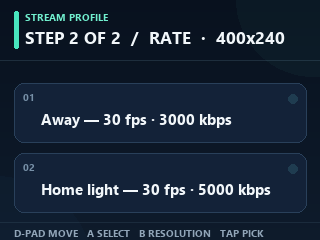
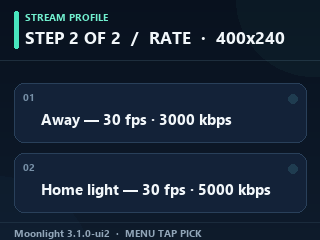
Fix stream profile picker rendering (3.1.0-ui2)

Changed region(s): [[0.0312, 0.9333, 0.6562, 1.0], [0.6875, 0.9333, 0.8438, 0.9917]]

diff --git a/3ds/gfx/make_stream_profile_pages.py b/3ds/gfx/make_stream_profile_pages.py
@@ -28,6 +28,7 @@ FONT_SMALL_BOLD = font("segoeuib.ttf", 10)
 FONT_TITLE = font("segoeuib.ttf", 17)
 FONT_RESOLUTION = font("segoeuib.ttf", 20)
 FONT_RATE = font("segoeuib.ttf", 15)
+VERSION = "3.1.0-ui2"
 
 
 def background():
@@ -74,10 +75,10 @@ def card(draw, bounds, number):
     )
 
 
-def footer(image, back_text):
+def footer(image):
     draw = ImageDraw.Draw(image)
-    hint = f"D-PAD MOVE   A SELECT   B {back_text}   TAP PICK"
-    draw.text((14, 226), hint, font=FONT_SMALL_BOLD, fill="#91A5B8")
+    line = f"Moonlight {VERSION}  \u00b7  MENU TAP PICK"
+    draw.text((14, 226), line, font=FONT_SMALL_BOLD, fill="#91A5B8")
 
 
 def draw_resolution_page():
@@ -113,7 +114,7 @@ def draw_resolution_page():
                 font=FONT_RESOLUTION,
                 fill="#F2F7FA",
             )
-    footer(image, "MENU")
+    footer(image)
     image.save(OUT / "stream_profile_resolution.png")
 
 
@@ -139,7 +140,7 @@ def draw_rate_page(resolution, options, filename):
             font=label_font,
             fill="#F2F7FA",
         )
-    footer(image, "RESOLUTION")
+    footer(image)
     image.save(OUT / filename)
 
 

diff --git a/src/n3ds_main.cpp b/src/n3ds_main.cpp
@@ -633,9 +633,9 @@ static const uint8_t *stream_profile_page_image(int page,
 
 static void stream_profile_draw_pixel(u16 *framebuffer, int x, int y,
                                       u16 color) {
-    // The PNG-to-BGR build rule rotates the image to match the 3DS framebuffer.
-    framebuffer[(GSP_SCREEN_WIDTH - 1 - x) * GSP_SCREEN_HEIGHT_BOTTOM + y] =
-        color;
+    // The PNG-to-BGR rule applies ffmpeg transpose=1: (x, y) becomes
+    // (GSP_SCREEN_WIDTH - 1 - y, x) in the row-major 240x320 framebuffer.
+    framebuffer[x * GSP_SCREEN_WIDTH + (GSP_SCREEN_WIDTH - 1 - y)] = color;
 }
 
 static void stream_profile_draw_outline(u16 *framebuffer,
@@ -672,7 +672,6 @@ static void draw_stream_profile_picker(int page, int resolution_index,
         page == 0 ? STREAM_PROFILE_RESOLUTION_TILES[selected_index]
                   : STREAM_PROFILE_RATE_TILES[selected_index];
     stream_profile_draw_outline(framebuffer, tile);
-    n3ds_draw_diag_version_overlay();
     consoleSelect(previous_console);
 
     gfxSwapBuffers();

diff --git a/src/diagnostics.h b/src/diagnostics.h
@@ -11,7 +11,7 @@ extern "C" {
 #endif
 
 #define DIAG_WATCHDOG_LIMIT_MS 30000ULL
-#define DIAG_BUILD_VERSION "3.1.0-ui1"
+#define DIAG_BUILD_VERSION "3.1.0-ui2"
 #define DIAG_LOG_LINE_MAX 512
 #define DIAG_RECENT_LINE_COUNT 8
 #define DIAG_CERT_FINGERPRINT_HEX_LENGTH 64
